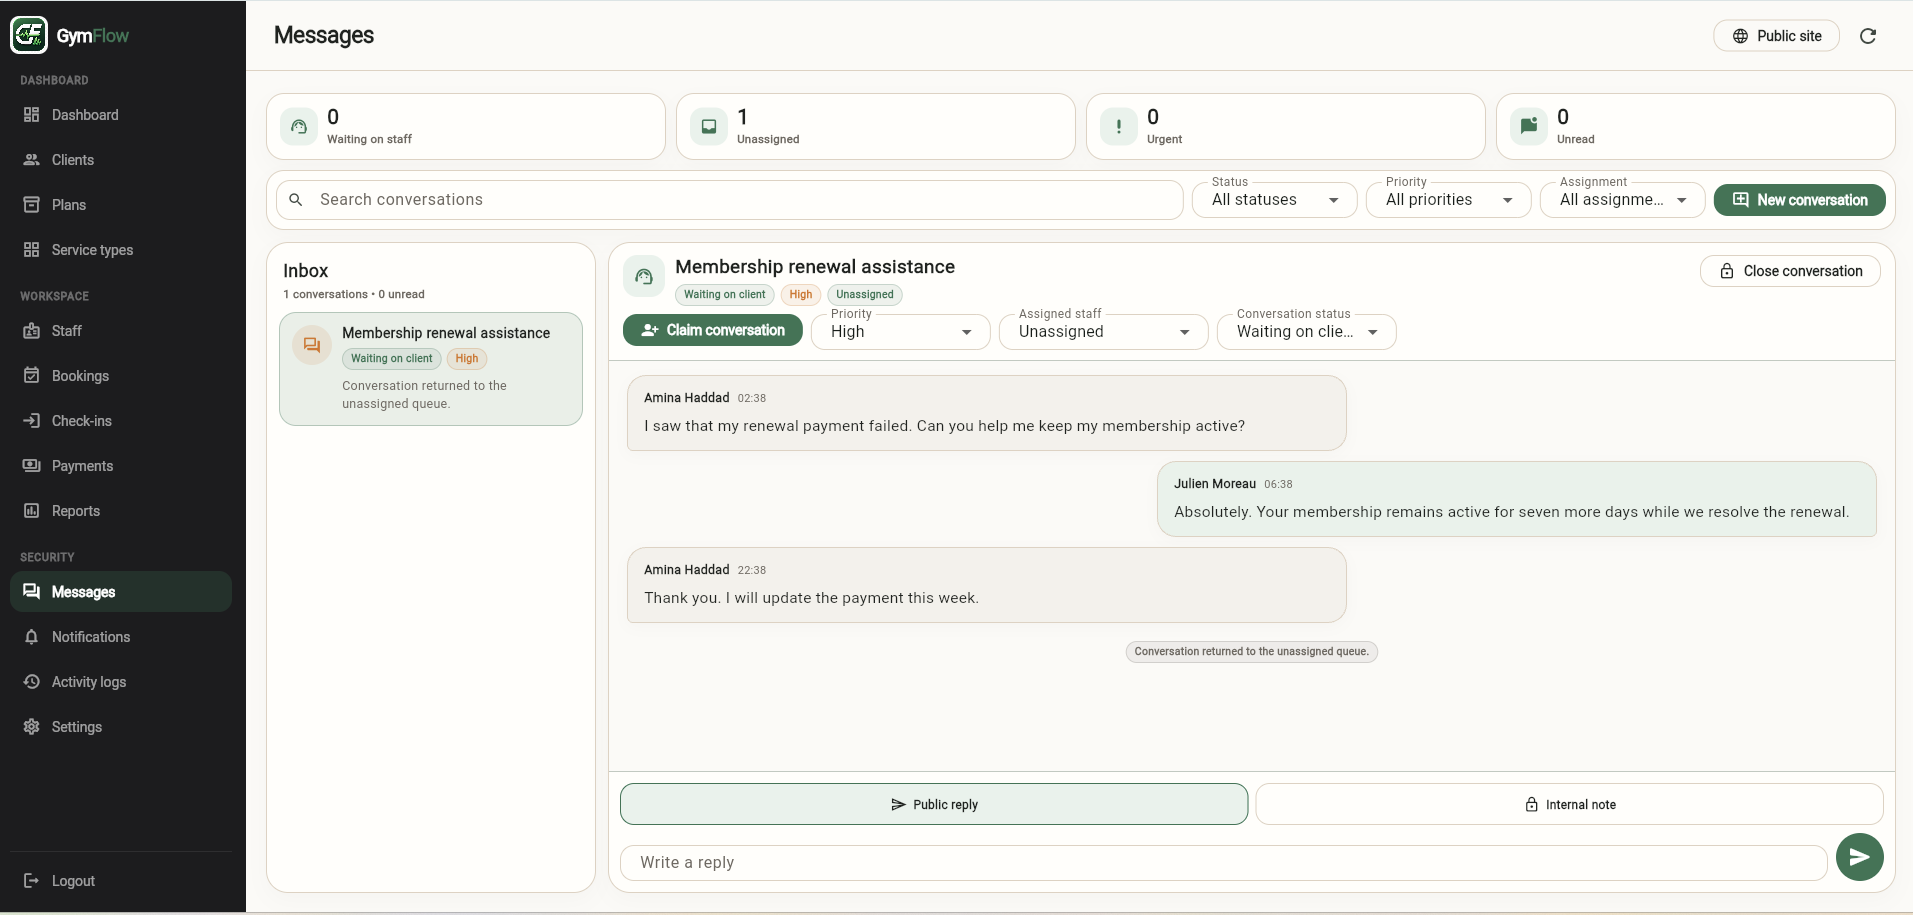
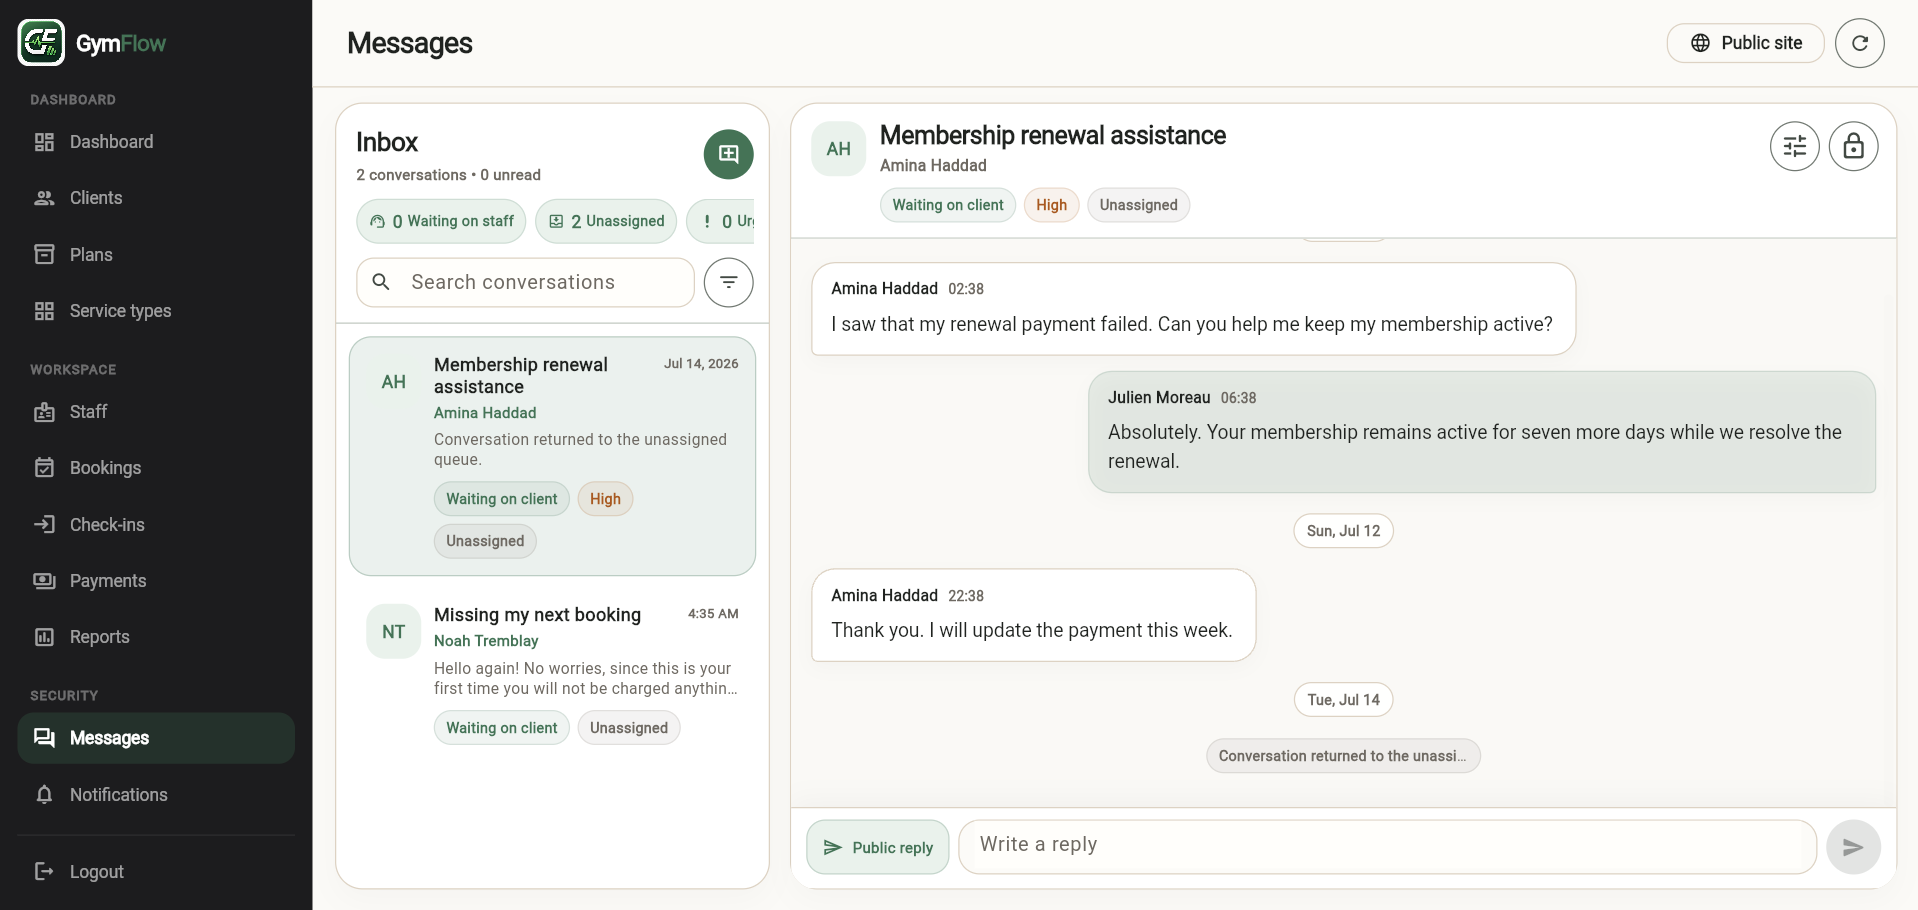
release: finalize provenance-aligned showcase candidate

diff --git a/scripts/check_showcase.py b/scripts/check_showcase.py
@@ -16,18 +16,19 @@ REQUIRED_FILES = {
     "BUILD_MANIFEST.md",
     "CHANGELOG.md",
     "DEMO.md",
-    "ENGINEERING.md",
-    "JOURNEY.md",
+    "docs/ENGINEERING.md",
     "LICENSE",
-    "OPERATIONS.md",
-    "QUALITY.md",
+    "docs/OPERATIONS.md",
+    "docs/QUALITY.md",
     "RELEASES.md",
     "ROADMAP.md",
     "SECURITY.md",
-    "THREAT_MODEL.md",
+    "docs/THREAT_MODEL.md",
     "screenshots/README.md",
     "video/README.md",
     ".github/workflows/showcase-quality.yml",
+    "docs/PRODUCT.md",
+    "docs/SECURITY_OVERVIEW.md",
 }
 
 PUBLIC_PRESENTATION_FILES = {
@@ -36,16 +37,17 @@ PUBLIC_PRESENTATION_FILES = {
     "BUILD_MANIFEST.md",
     "CHANGELOG.md",
     "DEMO.md",
-    "ENGINEERING.md",
-    "JOURNEY.md",
-    "OPERATIONS.md",
-    "QUALITY.md",
+    "docs/ENGINEERING.md",
+    "docs/OPERATIONS.md",
+    "docs/QUALITY.md",
     "RELEASES.md",
     "ROADMAP.md",
     "SECURITY.md",
-    "THREAT_MODEL.md",
+    "docs/THREAT_MODEL.md",
     "screenshots/README.md",
     "video/README.md",
+    "docs/PRODUCT.md",
+    "docs/SECURITY_OVERVIEW.md",
 }
 
 INTERNAL_AUTHORING_PHRASES = {
@@ -270,7 +272,10 @@ def check_markdown_links(errors: list[str]) -> None:
 
 
 def check_text_safety(errors: list[str]) -> None:
+    validator_path = Path(__file__).resolve()
     for path in text_files():
+        if path.resolve() == validator_path:
+            continue
         try:
             content = path.read_text(encoding="utf-8-sig")
         except UnicodeDecodeError:
@@ -286,6 +291,8 @@ def check_text_safety(errors: list[str]) -> None:
 def check_public_tone(errors: list[str]) -> None:
     for name in sorted(PUBLIC_PRESENTATION_FILES):
         path = ROOT / name
+        if not path.is_file():
+            continue
         content = path.read_text(encoding="utf-8-sig").lower()
         for phrase in sorted(INTERNAL_AUTHORING_PHRASES):
             if phrase in content:

diff --git a/scripts/check_release_candidate.py b/scripts/check_release_candidate.py
@@ -7,6 +7,8 @@ import subprocess
 import sys
 from pathlib import Path
 
+sys.dont_write_bytecode = True
+
 import check_showcase
 
 ROOT = Path(__file__).resolve().parents[1]
@@ -114,8 +116,16 @@ def check_final_media(errors: list[str]) -> None:
 
 
 def check_release_wording(errors: list[str]) -> None:
-    video_status = (ROOT / "video/README.md").read_text(encoding="utf-8-sig").lower()
-    manifest = (ROOT / "BUILD_MANIFEST.md").read_text(encoding="utf-8-sig").lower()
+    video_status = re.sub(
+        r"\s+",
+        " ",
+        (ROOT / "video/README.md").read_text(encoding="utf-8-sig").lower(),
+    )
+    manifest = re.sub(
+        r"\s+",
+        " ",
+        (ROOT / "BUILD_MANIFEST.md").read_text(encoding="utf-8-sig").lower(),
+    )
 
     for phrase in {
         "historical media",

diff --git a/DEMO.md b/DEMO.md
@@ -34,7 +34,7 @@ A validated rebuild produces the same connected business story:
 | Check-ins | 58 recent, including 4 today immediately after validation |
 | Revenue | Six months of non-flat history; 3,402.00 CAD current-month target |
 | Pending payments | 377.00 CAD target |
-| Notifications | Staff and client examples; 6 unread for the owner immediately after validation |
+| Notifications | Staff and client examples; 6 unread for workspace owners immediately after validation |
 | Messaging | One professional support workflow |
 | Canonical portal stories | Lena Martin and Amina Haddad |
 | Visual-review account | Noah Tremblay for neutral command-center and portal captures |
